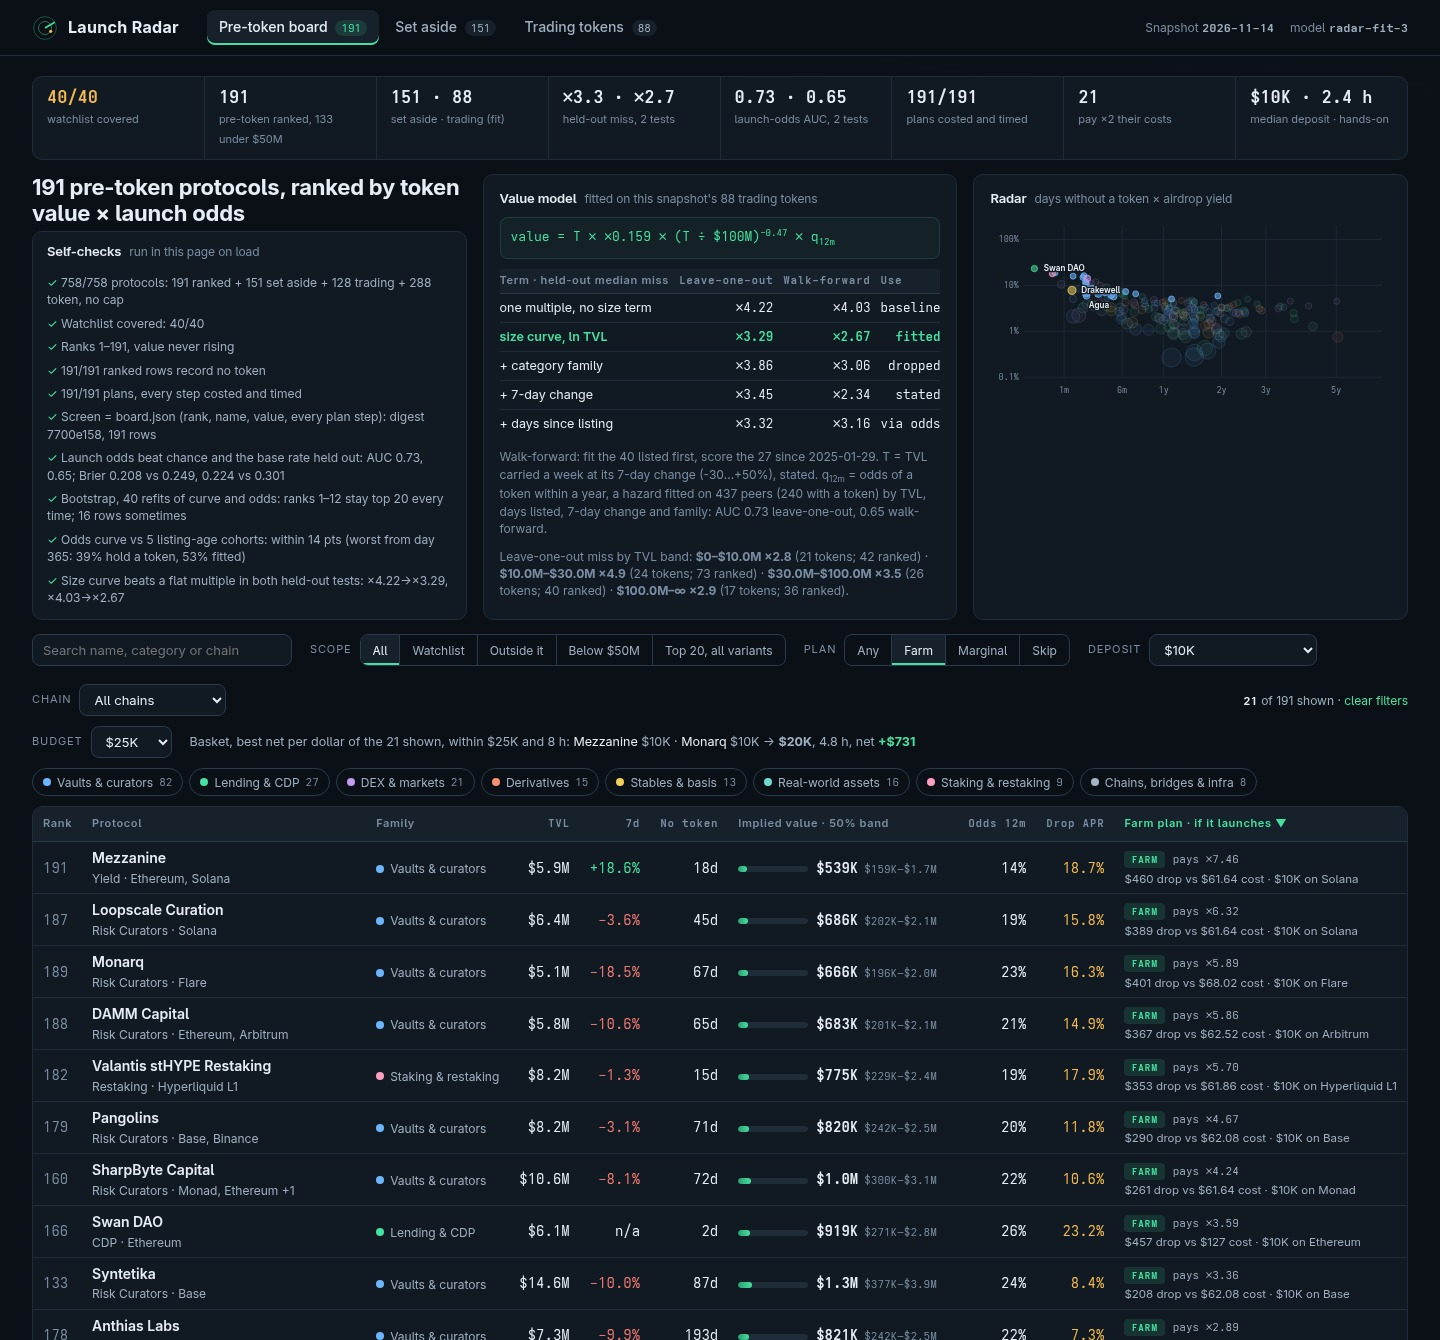
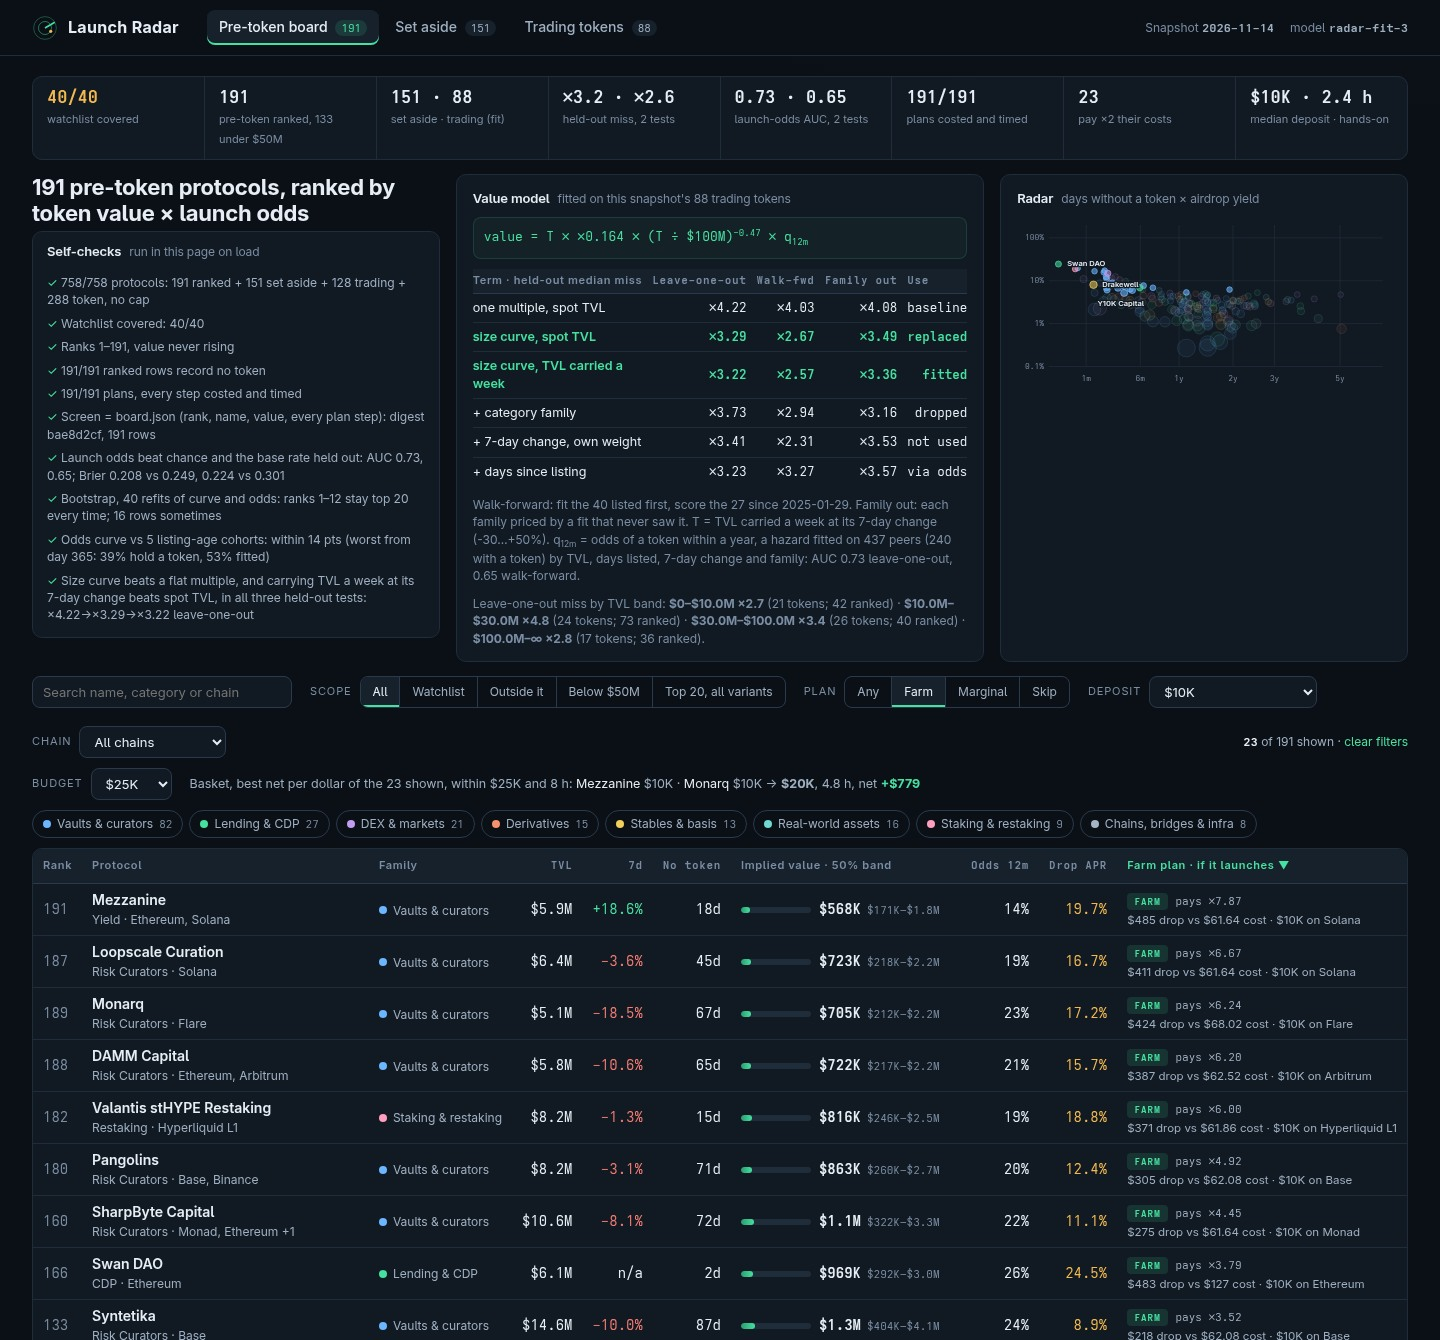
Value curve fitted on TVL carried a week (beats spot TVL leave-one-out, walk-forward and leave-one-family-out); third held-out column: every family priced by a fit that never saw it

diff --git a/dashboard/model.js b/dashboard/model.js
@@ -77,11 +77,14 @@
     });
     var pts = order.map(function (k) {
       var t = tok[k];
-      return { p: t.p, tvl: t.tvl, mcap: t.mcap, members: t.members, f: family(t.p), x: Math.log(t.tvl / M.ref_tvl), y: Math.log(clamp(t.mcap / t.tvl, M.ratio_floor, M.ratio_cap)) };
+      // tc = TVL carried a week at its 7-day change, the same T the board values; spot TVL kept as a rival.
+      var tc = t.tvl * (1 + clamp(t.p.change_7d || 0, M.growth_floor, M.growth_cap) / 100);
+      return { p: t.p, tvl: t.tvl, tc: tc, mcap: t.mcap, members: t.members, f: family(t.p), x: Math.log(tc / M.ref_tvl), y: Math.log(clamp(t.mcap / tc, M.ratio_floor, M.ratio_cap)),
+        sx: Math.log(t.tvl / M.ref_tvl), sy: Math.log(clamp(t.mcap / t.tvl, M.ratio_floor, M.ratio_cap)) };
     });
     // Category families enter the curve (k = 0) only if they lower the miss in both held-out tests, else
     // one size curve (k = Infinity). Misses: leave-one-out, against the real, unclipped market cap.
-    var tests = termTests(pts, snap.as_of), k = tests.terms[2].ok ? 0 : Infinity;
+    var tests = termTests(pts, snap.as_of), k = tests.terms[3].ok ? 0 : Infinity;
     var miss = pts.map(function (q, i) { return Math.log(q.mcap / predict(fitPoints(pts.filter(function (o, j) { return j !== i; }), k), q)); });
     var full = fitPoints(pts, k);
     pts.forEach(function (q, i) { q.fit = Math.round(predict(full, q)); q.loo = q.mcap / Math.exp(miss[i]); });
@@ -163,33 +166,37 @@
     });
     var dated = pts.filter(function (q) { return q.p.listed_at; }).sort(function (a, b) { return a.p.listed_at < b.p.listed_at ? -1 : a.p.listed_at > b.p.listed_at ? 1 : bySlug(a.p, b.p); });
     var cut = Math.floor(dated.length * 0.6);
-    function score(make) {
-      var err = function (m, q) { return Math.abs(Math.log(q.mcap / q.tvl) - m(q)); };
-      var loo = pts.map(function (q, i) { return err(make(pts.filter(function (o, j) { return j !== i; })), q); });
-      var m = make(dated.slice(0, cut));
-      var wf = dated.slice(cut).map(function (q) { return err(m, q); });
+    // Each term predicts ln(market cap) on its own size input (spot or carried TVL); scored leave-one-out,
+    // walk-forward, and leave-one-family-out (every family priced by a fit that never saw it).
+    function score(make, spot) {
+      var err = function (m, q) { return Math.abs(Math.log(q.mcap / (spot ? q.tvl : q.tc)) - m(q)); };
       var med = function (a) { return Math.exp(quantile(a.sort(function (u, v) { return u - v; }), 0.5)); };
-      return { loo: med(loo), wf: med(wf), w: make(pts).w };
+      var loo = pts.map(function (q, i) { return err(make(pts.filter(function (o, j) { return j !== i; })), q); });
+      var m = make(dated.slice(0, cut)), wf = dated.slice(cut).map(function (q) { return err(m, q); });
+      var lofo = pts.map(function (q) { return err(make(pts.filter(function (o) { return o.f !== q.f; })), q); });
+      return { loo: med(loo), wf: med(wf), lofo: med(lofo) };
     }
     var T = [
-      ['flat', 'one multiple, no size term', function (q) { return [1]; }],
-      ['size', 'size curve, ln TVL', function (q) { return [1, q.x]; }],
+      ['flat', 'one multiple, spot TVL', function (q) { return [1]; }, 1],
+      ['spot', 'size curve, spot TVL', function (q) { return [1, q.sx]; }, 1],
+      ['size', 'size curve, TVL carried a week', function (q) { return [1, q.x]; }],
       ['family', '+ category family', null],
-      ['growth', '+ 7-day change', function (q) { return [1, q.x, Math.log(1 + q.g)]; }],
+      ['growth', '+ 7-day change, own weight', function (q) { return [1, q.x, Math.log(1 + q.g)]; }],
       ['age', '+ days since listing', function (q) { return [1, q.x, Math.log(1 + q.age / 365)]; }]
     ].map(function (t) {
-      var r = score(t[2] ? function (tr) { return ols(tr, t[2]); } : function (tr) { var f = fitPoints(tr, 0); var m = function (q) { return f.fams[q.f].ln + f.b * q.x; }; m.w = []; return m; });
+      var r = score(t[2] ? function (tr) { return ols(tr, t[2], t[3] ? 'sy' : 'y'); } : function (tr) { var f = fitPoints(tr, 0); return function (q) { return (f.fams[q.f].peers ? f.fams[q.f].ln : f.all) + f.b * q.x; }; }, t[3]);
       r.key = t[0]; r.label = t[1];
       return r;
     });
-    T.forEach(function (t) { t.ok = t.key === 'flat' ? null : t.loo < T[t.key === 'size' ? 0 : 1].loo && t.wf < T[t.key === 'size' ? 0 : 1].wf; });
+    // ok = beats its rival (flat for spot, spot for carried, carried for the rest) in all three tests.
+    T.forEach(function (t, i) { var b = T[i < 3 ? i - 1 : 2]; t.ok = i ? t.loo < b.loo && t.wf < b.wf && t.lofo < b.lofo : null; });
     return { terms: T, wf_n: dated.length - cut, wf_train: cut, wf_from: dated[cut].p.listed_at };
   }
   // Least squares by the normal equations; returns the predictor, its weights on .w.
-  function ols(pts, feats) {
+  function ols(pts, feats, yk) {
     var n = feats(pts[0]).length, A = [], v = [], i, j, r, t;
     for (i = 0; i < n; i++) { A.push([]); v.push(0); for (j = 0; j < n; j++) A[i].push(0); }
-    pts.forEach(function (q) { var f = feats(q); for (i = 0; i < n; i++) { v[i] += f[i] * q.y; for (j = 0; j < n; j++) A[i][j] += f[i] * f[j]; } });
+    pts.forEach(function (q) { var f = feats(q); for (i = 0; i < n; i++) { v[i] += f[i] * q[yk || 'y']; for (j = 0; j < n; j++) A[i][j] += f[i] * f[j]; } });
     for (i = 0; i < n; i++) for (r = 0; r < n; r++) if (r !== i) { t = A[r][i] / A[i][i]; for (j = 0; j < n; j++) A[r][j] -= t * A[i][j]; v[r] -= t * v[i]; }
     var w = v.map(function (x, k) { return x / A[k][k]; });
     var m = function (q) { return feats(q).reduce(function (s, x, k) { return s + x * w[k]; }, 0); };
@@ -203,7 +210,7 @@
     return ('0000000' + h.toString(16)).slice(-8);
   }
   function quantile(a, t) { var i = (a.length - 1) * t, lo = Math.floor(i); return a[lo] + (a[Math.min(lo + 1, a.length - 1)] - a[lo]) * (i - lo); }
-  function predict(f, q) { return q.tvl * Math.exp(f.fams[q.f].ln + f.b * q.x); }
+  function predict(f, q) { return q.tc * Math.exp(f.fams[q.f].ln + f.b * q.x); }
 
   /* Least squares: slope pooled within families, family intercepts pulled to the mean by k pseudo-peers
    * (k = Infinity: one curve for all). */

diff --git a/dashboard/app.js b/dashboard/app.js
@@ -106,19 +106,19 @@
   const O = fit.odds, pc = (x) => (x * 100).toFixed(0) + '%';
   function formula() {
     const T = fit.tests, x = (v) => '×' + v.toFixed(2);
-    const used = { flat: 'baseline', size: 'fitted', family: fit.k === Infinity ? 'dropped' : 'k=' + fit.k, growth: 'stated', age: 'via odds' };
+    const used = { flat: 'baseline', spot: 'replaced', size: 'fitted', family: fit.k === Infinity ? 'dropped' : 'k=' + fit.k, growth: 'not used', age: 'via odds' };
     return `<div class="card model">
       <h2>Value model <span>fitted on this snapshot's ${fit.n} trading tokens</span></h2>
       <p class="eq">value = T × ${mult(fit.base)} × (T ÷ $100M)<sup>${fit.slope.toFixed(2)}</sup> × q<sub>12m</sub></p>
-      <table class="mini tests"><thead><tr><th>Term · held-out median miss</th><th class="num">Leave-one-out</th><th class="num">Walk-forward</th><th class="num">Use</th></tr></thead><tbody>
-      ${T.terms.map((t) => `<tr class="${t.ok ? 'pick' : ''}"><td>${t.label}</td><td class="num">${x(t.loo)}</td><td class="num">${x(t.wf)}</td><td class="num">${used[t.key]}</td></tr>`).join('')}</tbody></table>
-      <p class="note">Walk-forward: fit the ${T.wf_train} listed first, score the ${T.wf_n} since ${T.wf_from}. T = TVL carried a week at its 7-day change (${M.growth_floor}…+${M.growth_cap}%), stated. q<sub>12m</sub> = odds of a token within a year, a hazard fitted on ${O.n} peers (${O.with_token} with a token) by TVL, days listed, 7-day change and family: AUC ${O.auc_loo.toFixed(2)} leave-one-out, ${O.auc_wf.toFixed(2)} walk-forward.</p>
+      <table class="mini tests"><thead><tr><th>Term · held-out median miss</th><th class="num">Leave-one-out</th><th class="num">Walk-fwd</th><th class="num">Family out</th><th class="num">Use</th></tr></thead><tbody>
+      ${T.terms.map((t) => `<tr class="${t.ok ? 'pick' : ''}"><td>${t.label}</td><td class="num">${x(t.loo)}</td><td class="num">${x(t.wf)}</td><td class="num">${x(t.lofo)}</td><td class="num">${used[t.key]}</td></tr>`).join('')}</tbody></table>
+      <p class="note">Walk-forward: fit the ${T.wf_train} listed first, score the ${T.wf_n} since ${T.wf_from}. Family out: each family priced by a fit that never saw it. T = TVL carried a week at its 7-day change (${M.growth_floor}…+${M.growth_cap}%). q<sub>12m</sub> = odds of a token within a year, a hazard fitted on ${O.n} peers (${O.with_token} with a token) by TVL, days listed, 7-day change and family: AUC ${O.auc_loo.toFixed(2)} leave-one-out, ${O.auc_wf.toFixed(2)} walk-forward.</p>
       <p class="note">Leave-one-out miss by TVL band: ${fit.bands.map((b) => `<b>${b.lo ? usd(b.lo) : '$0'}–${b.hi < 1e15 ? usd(b.hi) : '∞'} ×${b.miss.toFixed(1)}</b> (${b.n} tokens; ${rows.filter((r) => r.p.tvl_usd >= b.lo && r.p.tvl_usd < b.hi).length} ranked)`).join(' · ')}.</p></div>`;
   }
 
   // The cover's self-checks, computed here on every load: the gate's rules and the screen-to-board match.
   const bRows = R.boardRows(radar), dig = R.digest(bRows), B = window.BOARD || {};
-  const sizeT = fit.tests.terms[1], flatT = fit.tests.terms[0];
+  const [flatT, spotT, sizeT] = fit.tests.terms;
   const nTr = S.protocols.filter((p) => p.mcap_usd > 0).length, nAll = rows.length + radar.products.length + nTr + radar.listed_only;
   const CHECKS = [
     [nAll === S.protocols.length, `${nAll}/${S.protocols.length} protocols: ${rows.length} ranked + ${radar.products.length} set aside + ${nTr} trading + ${radar.listed_only} token, no cap`],
@@ -130,7 +130,7 @@
     [O.auc_loo > 0.5 && O.auc_wf > 0.5 && O.brier.loo < O.brier.loo_base && O.brier.wf < O.brier.wf_base, `Launch odds beat chance and the base rate held out: AUC ${O.auc_loo.toFixed(2)}, ${O.auc_wf.toFixed(2)}; Brier ${O.brier.loo.toFixed(3)} vs ${O.brier.loo_base.toFixed(3)}, ${O.brier.wf.toFixed(3)} vs ${O.brier.wf_base.toFixed(3)}`],
     [true, `Bootstrap, 40 refits of curve and odds: ranks 1–${rows.findIndex((r) => r.boot < 1)} stay top 20 every time; ${rows.filter((r) => r.boot > 0 && r.boot < 1).length} rows sometimes`],
     ((w) => [O.gap < 0.2, `Odds curve vs ${O.cohorts.length} listing-age cohorts: within ${Math.round(O.gap * 100)} pts (worst from day ${w.from}: ${pc(w.actual)} hold a token, ${pc(w.fitted)} fitted)`])(O.cohorts.reduce((a, c) => Math.abs(c.actual - c.fitted) > Math.abs(a.actual - a.fitted) ? c : a)),
-    [sizeT.ok, `Size curve beats a flat multiple in both held-out tests: ×${flatT.loo.toFixed(2)}→×${sizeT.loo.toFixed(2)}, ×${flatT.wf.toFixed(2)}→×${sizeT.wf.toFixed(2)}`]
+    [spotT.ok && sizeT.ok, `Size curve beats a flat multiple, and carrying TVL a week at its 7-day change beats spot TVL, in all three held-out tests: ×${flatT.loo.toFixed(2)}→×${spotT.loo.toFixed(2)}→×${sizeT.loo.toFixed(2)} leave-one-out`]
   ];
 
   function board(st) {
